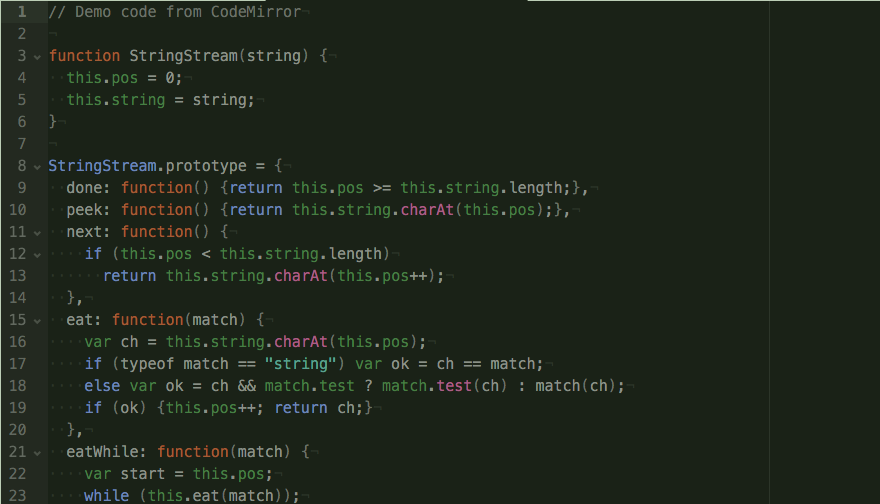
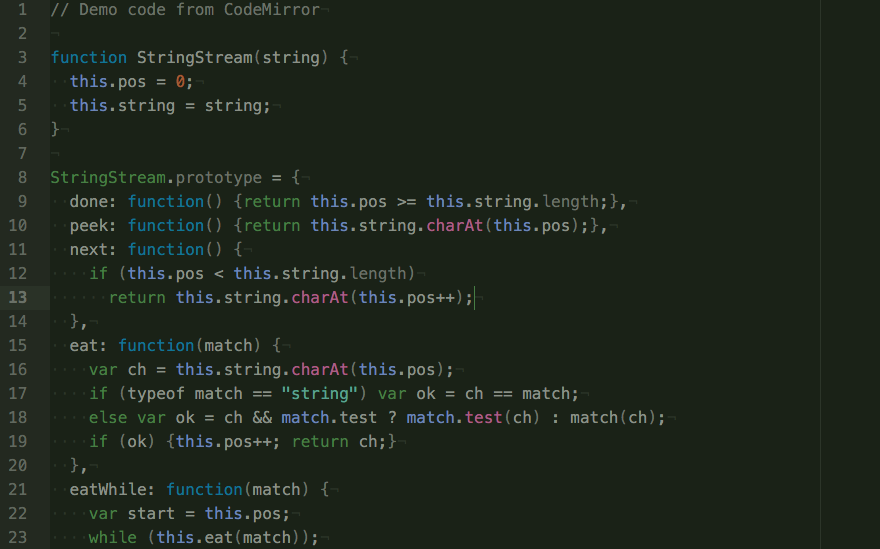
Update js screenshot and minor readme corrections.

diff --git a/README.md b/README.md
@@ -1,14 +1,12 @@
 ## Oliveira syntax theme
 
-**NOTE: Project in development. Support for more languages will be added.**
-
 A colourful, low-contrast syntax highlighting theme based on a 16-colour palette. Comes in light and dark variants.
 
 Project page: [http://www.protesilaos.com/oliveira](http://www.protesilaos.com/oliveira)
 
-Light variant: [https://atom.io/themes/oliveira-syntax](https://atom.io/themes/oliveira-syntax)
+Light variant for Atom text editor: [https://atom.io/themes/oliveira-syntax](https://atom.io/themes/oliveira-syntax)
 
-Dark variant: [https://atom.io/themes/oliveira-dark-syntax](https://atom.io/themes/oliveira-dark-syntax)
+Dark variant for Atom text editor: [https://atom.io/themes/oliveira-dark-syntax](https://atom.io/themes/oliveira-dark-syntax)
 
 ## Palette
 
@@ -52,13 +50,3 @@ VIO | 6C85B7 | 220, 34, 57 | 108, 133, 183
 ![oliveira light rb](https://raw.githubusercontent.com/protesilaos/oliveira/master/img/lightrb.png)
 
 ![oliveira dark rb](https://raw.githubusercontent.com/protesilaos/oliveira/master/img/darkrb.png)
-
-## Languages
-
-- HTML
-- CSS
-- Markdown
-- Javascript
-- Ruby
-
-*Language support will be extended along the development cycle.*
